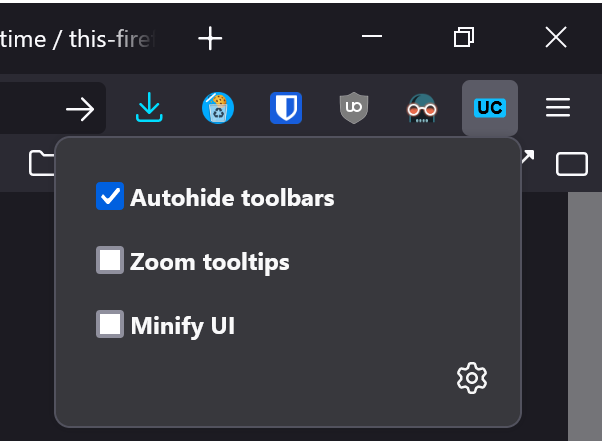
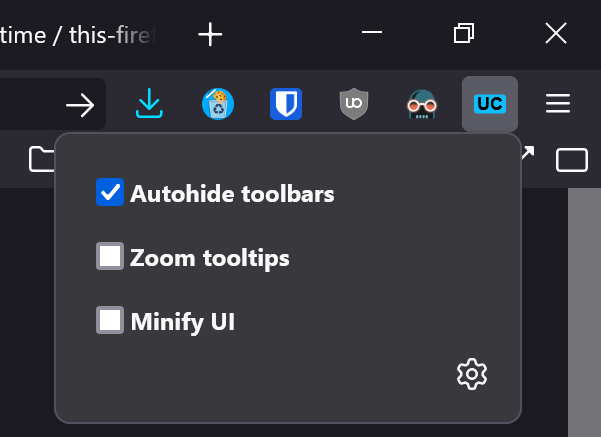
Update screenshots

diff --git a/README.md b/README.md
@@ -8,13 +8,16 @@ This [Firefox extension](https://addons.mozilla.org/firefox/addon/userchrome-tog
 The addon accomplishes this by changing the browsers 'title prefix' attribute. Don't worry! By using invisible UTF-8 characters by default, you won't even notice a thing! Toggle a single style or select up to three styles to toggle in a drop-down menu. Hardcore keyboard users can even use customizable keyboard-shortcuts.
 
 # Screenshots
-<img align="left" src="https://github.com/Joolee/userchrome-toggle/raw/main/.github/assets/single-toggle.png">
+<img width="300" src="https://github.com/Joolee/userchrome-toggle/raw/main/.github/assets/single-toggle.png">
+
 Toggle a single style with the toolbar button
 
-<img align="left" src="https://github.com/Joolee/userchrome-toggle/raw/main/.github/assets/multiple-radio.png">
+<img width="300" src="https://github.com/Joolee/userchrome-toggle/raw/main/.github/assets/multiple-radio.png">
+
 Switch between different styles
 
-<img align="left" src="https://github.com/Joolee/userchrome-toggle/raw/main/.github/assets/multiple-checkbox.png">
+<img width="300" src="https://github.com/Joolee/userchrome-toggle/raw/main/.github/assets/multiple-checkbox.png">
+
 Select multiple styles to be active together
 
 
